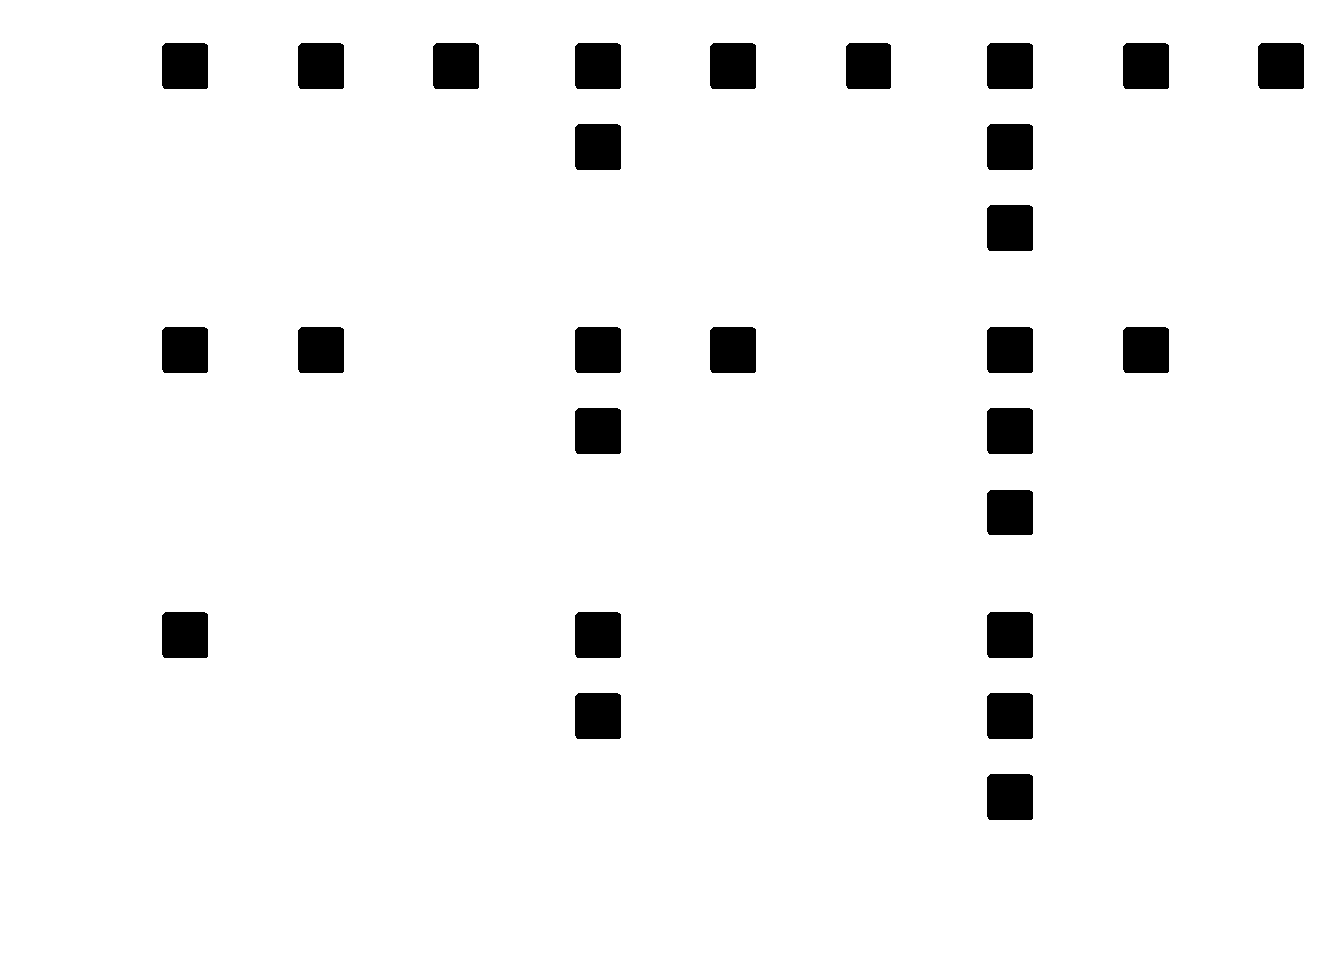
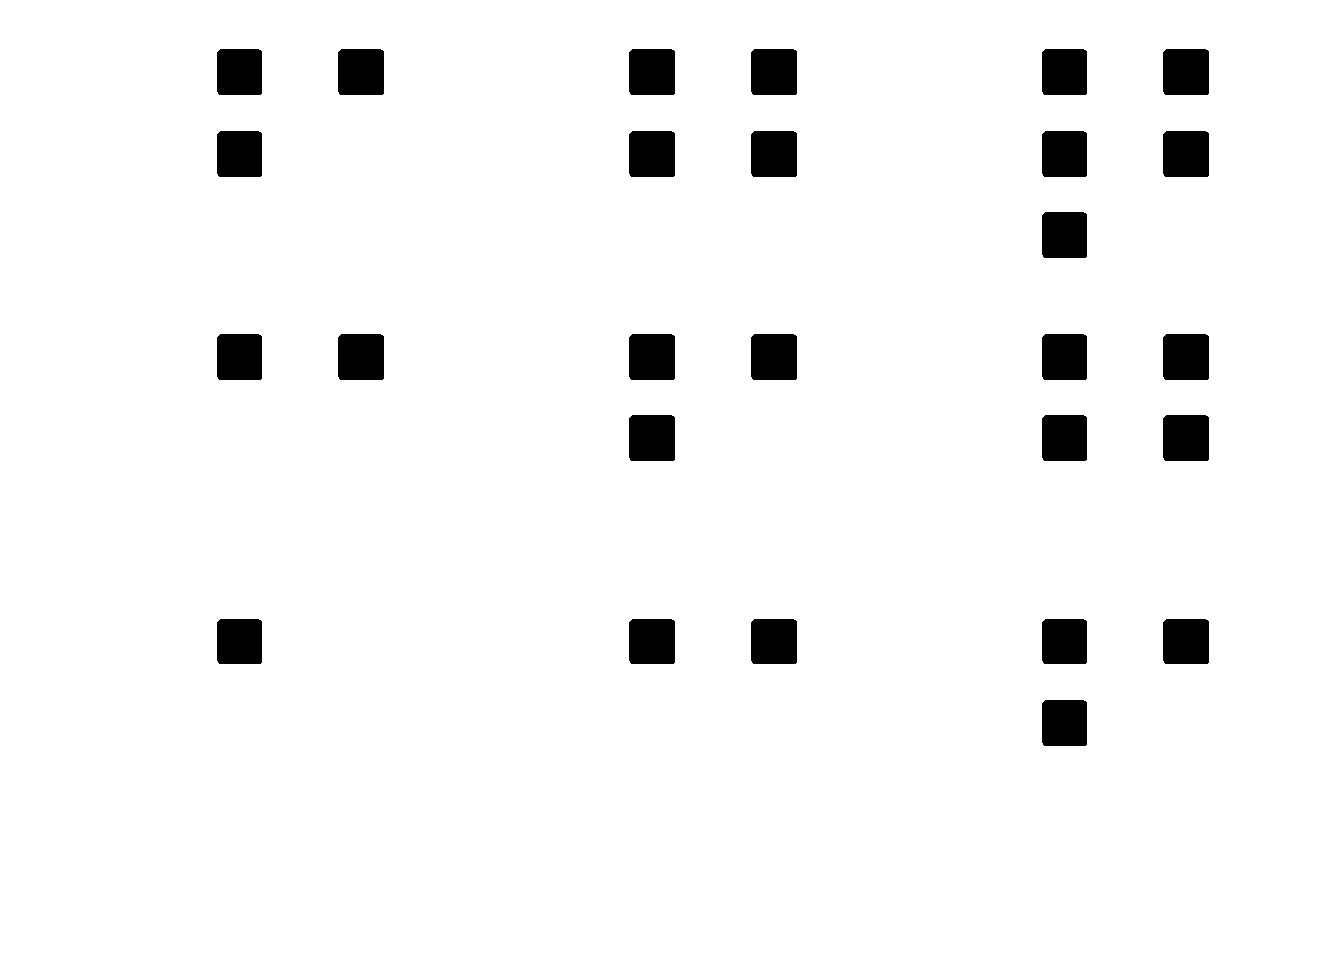
Matrici logiche e cambio forma

diff --git a/availableMatrix.html b/availableMatrix.html
@@ -70,6 +70,7 @@ ul.task-list li input[type="checkbox"] {
   <li><a href="#forma-riempimento-bordo" id="toc-forma-riempimento-bordo" class="nav-link" data-scroll-target="#forma-riempimento-bordo">Forma riempimento bordo</a></li>
   <li><a href="#forma-riempimento-dimensione" id="toc-forma-riempimento-dimensione" class="nav-link" data-scroll-target="#forma-riempimento-dimensione">Forma riempimento dimensione</a></li>
   <li><a href="#progressione-quantitativa" id="toc-progressione-quantitativa" class="nav-link" data-scroll-target="#progressione-quantitativa">Progressione Quantitativa</a></li>
+  <li><a href="#forma-progressione-quantitaiva" id="toc-forma-progressione-quantitaiva" class="nav-link" data-scroll-target="#forma-progressione-quantitaiva">Forma, Progressione Quantitaiva</a></li>
   <li><a href="#ragionamento-induttivo-simbolicoastratto" id="toc-ragionamento-induttivo-simbolicoastratto" class="nav-link" data-scroll-target="#ragionamento-induttivo-simbolicoastratto">Ragionamento induttivo simbolico/astratto</a></li>
   </ul></li>
   </ul>
@@ -576,7 +577,7 @@ ul.task-list li input[type="checkbox"] {
 <section id="progressione-quantitativa" class="level2">
 <h2 class="anchored" data-anchor-id="progressione-quantitativa">Progressione Quantitativa</h2>
 <div class="panel-tabset">
-<ul class="nav nav-tabs" role="tablist"><li class="nav-item" role="presentation"><a class="nav-link active" id="tabset-16-1-tab" data-bs-toggle="tab" data-bs-target="#tabset-16-1" role="tab" aria-controls="tabset-16-1" aria-selected="true" href="">Crescente in H e decrescente in V</a></li><li class="nav-item" role="presentation"><a class="nav-link" id="tabset-16-2-tab" data-bs-toggle="tab" data-bs-target="#tabset-16-2" role="tab" aria-controls="tabset-16-2" aria-selected="false" href="">Crescente in orizzontale e verticale</a></li></ul>
+<ul class="nav nav-tabs" role="tablist"><li class="nav-item" role="presentation"><a class="nav-link active" id="tabset-16-1-tab" data-bs-toggle="tab" data-bs-target="#tabset-16-1" role="tab" aria-controls="tabset-16-1" aria-selected="true" href="">LL-TR (crescente orizontale e decrescente verticale)</a></li><li class="nav-item" role="presentation"><a class="nav-link" id="tabset-16-2-tab" data-bs-toggle="tab" data-bs-target="#tabset-16-2" role="tab" aria-controls="tabset-16-2" aria-selected="false" href="">TL-LR</a></li></ul>
 <div class="tab-content">
 <div id="tabset-16-1" class="tab-pane active" role="tabpanel" aria-labelledby="tabset-16-1-tab">
 <div class="cell">
@@ -595,10 +596,10 @@ ul.task-list li input[type="checkbox"] {
 </div>
 </div>
 </section>
-<section id="ragionamento-induttivo-simbolicoastratto" class="level2">
-<h2 class="anchored" data-anchor-id="ragionamento-induttivo-simbolicoastratto">Ragionamento induttivo simbolico/astratto</h2>
+<section id="forma-progressione-quantitaiva" class="level2">
+<h2 class="anchored" data-anchor-id="forma-progressione-quantitaiva">Forma, Progressione Quantitaiva</h2>
 <div class="panel-tabset">
-<ul class="nav nav-tabs" role="tablist"><li class="nav-item" role="presentation"><a class="nav-link active" id="tabset-17-1-tab" data-bs-toggle="tab" data-bs-target="#tabset-17-1" role="tab" aria-controls="tabset-17-1" aria-selected="true" href="">AND orizzontale</a></li><li class="nav-item" role="presentation"><a class="nav-link" id="tabset-17-2-tab" data-bs-toggle="tab" data-bs-target="#tabset-17-2" role="tab" aria-controls="tabset-17-2" aria-selected="false" href="">AND orizzontale o verticale</a></li><li class="nav-item" role="presentation"><a class="nav-link" id="tabset-17-3-tab" data-bs-toggle="tab" data-bs-target="#tabset-17-3" role="tab" aria-controls="tabset-17-3" aria-selected="false" href="">OR orizzontale</a></li></ul>
+<ul class="nav nav-tabs" role="tablist"><li class="nav-item" role="presentation"><a class="nav-link active" id="tabset-17-1-tab" data-bs-toggle="tab" data-bs-target="#tabset-17-1" role="tab" aria-controls="tabset-17-1" aria-selected="true" href="">V su entrambe le regole</a></li><li class="nav-item" role="presentation"><a class="nav-link" id="tabset-17-2-tab" data-bs-toggle="tab" data-bs-target="#tabset-17-2" role="tab" aria-controls="tabset-17-2" aria-selected="false" href="">V per una regola e H per l’altra</a></li><li class="nav-item" role="presentation"><a class="nav-link" id="tabset-17-3-tab" data-bs-toggle="tab" data-bs-target="#tabset-17-3" role="tab" aria-controls="tabset-17-3" aria-selected="false" href="">H per una regola e V per l’altra</a></li></ul>
 <div class="tab-content">
 <div id="tabset-17-1" class="tab-pane active" role="tabpanel" aria-labelledby="tabset-17-1-tab">
 <div class="cell">
@@ -618,6 +619,35 @@ ul.task-list li input[type="checkbox"] {
 <div class="cell">
 <div class="cell-output-display">
 <p><img src="availableMatrix_files/figure-html/unnamed-chunk-55-1.png" class="img-fluid" width="672"></p>
+</div>
+</div>
+</div>
+</div>
+</div>
+</section>
+<section id="ragionamento-induttivo-simbolicoastratto" class="level2">
+<h2 class="anchored" data-anchor-id="ragionamento-induttivo-simbolicoastratto">Ragionamento induttivo simbolico/astratto</h2>
+<div class="panel-tabset">
+<ul class="nav nav-tabs" role="tablist"><li class="nav-item" role="presentation"><a class="nav-link active" id="tabset-18-1-tab" data-bs-toggle="tab" data-bs-target="#tabset-18-1" role="tab" aria-controls="tabset-18-1" aria-selected="true" href="">AND orizzontale</a></li><li class="nav-item" role="presentation"><a class="nav-link" id="tabset-18-2-tab" data-bs-toggle="tab" data-bs-target="#tabset-18-2" role="tab" aria-controls="tabset-18-2" aria-selected="false" href="">AND orizzontale o verticale</a></li><li class="nav-item" role="presentation"><a class="nav-link" id="tabset-18-3-tab" data-bs-toggle="tab" data-bs-target="#tabset-18-3" role="tab" aria-controls="tabset-18-3" aria-selected="false" href="">OR orizzontale</a></li></ul>
+<div class="tab-content">
+<div id="tabset-18-1" class="tab-pane active" role="tabpanel" aria-labelledby="tabset-18-1-tab">
+<div class="cell">
+<div class="cell-output-display">
+<p><img src="availableMatrix_files/figure-html/unnamed-chunk-56-1.png" class="img-fluid" width="672"></p>
+</div>
+</div>
+</div>
+<div id="tabset-18-2" class="tab-pane" role="tabpanel" aria-labelledby="tabset-18-2-tab">
+<div class="cell">
+<div class="cell-output-display">
+<p><img src="availableMatrix_files/figure-html/unnamed-chunk-57-1.png" class="img-fluid" width="672"></p>
+</div>
+</div>
+</div>
+<div id="tabset-18-3" class="tab-pane" role="tabpanel" aria-labelledby="tabset-18-3-tab">
+<div class="cell">
+<div class="cell-output-display">
+<p><img src="availableMatrix_files/figure-html/unnamed-chunk-58-1.png" class="img-fluid" width="672"></p>
 </div>
 </div>
 </div>
